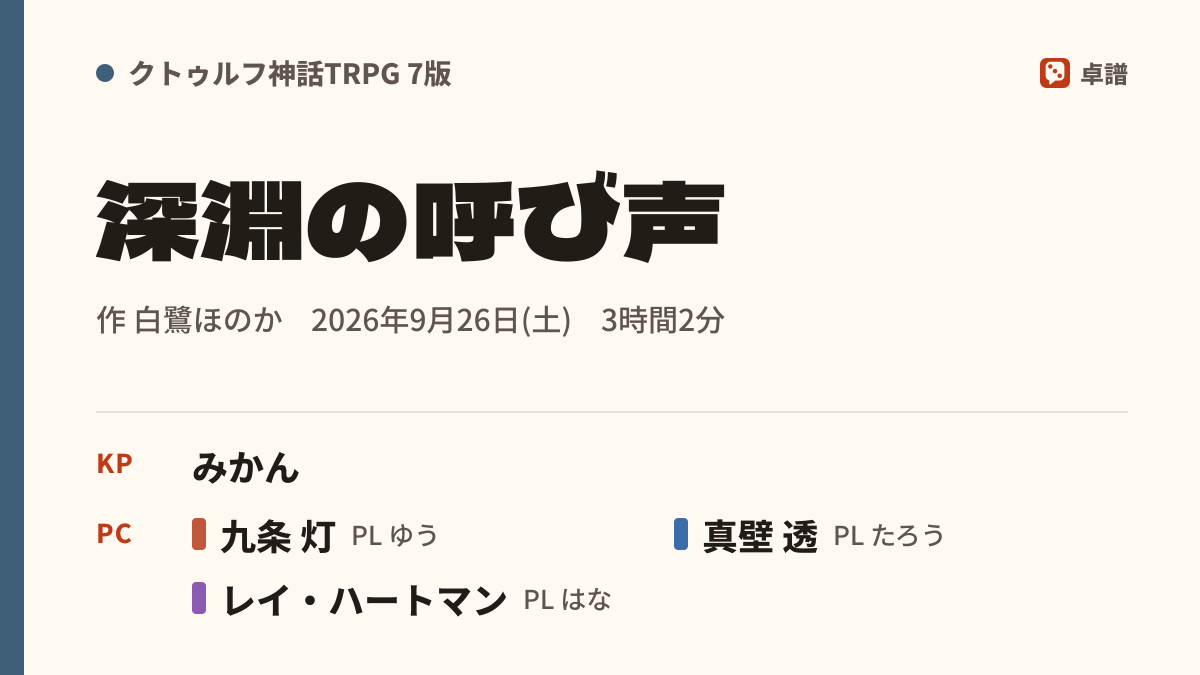
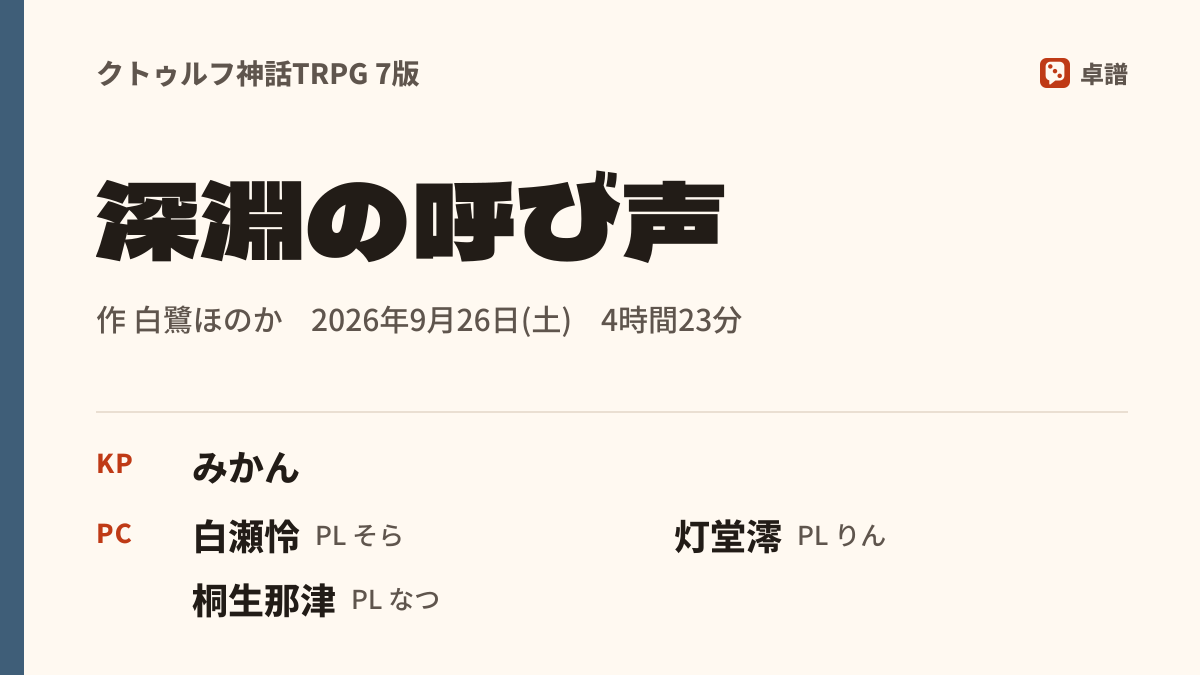
fix(report-card): no headcount-only roster, no per-person colours
When every name is hidden the card now omits the roster instead of showing
"PL 5人", and colour is limited to the system band: no per-PC markers and
no dot before the system name. The card payload drops players and colours;
the post text counts players itself. The LP sample is redrawn with the LP's
own cast.

diff --git a/src/server/og-image.tsx b/src/server/og-image.tsx
@@ -420,12 +420,11 @@ function Member({ m, width, plLabel }: { m: ReportCardMember; width: number; plL
   const sub = m.pc && m.pl ? `${plLabel} ${m.pl}` : undefined;
   return (
     <div style={row({ width, height: 50, gap: 14, overflow: "hidden", flexShrink: 0 })}>
-      <div style={{ width: 14, height: 32, borderRadius: 4, flexShrink: 0, background: m.color ?? C.line }} />
       <span
         style={{
           display: "block",
           lineClamp: 1,
-          maxWidth: width - 28,
+          maxWidth: width,
           fontSize: 36,
           fontWeight: 800,
           color: C.ink,
@@ -455,7 +454,7 @@ function Member({ m, width, plLabel }: { m: ReportCardMember; width: number; plL
 
 /**
  * 卓報告カード。X の卓報告の並び（システム『題名』作者 / 日付 / KP / PL・PC）をそのまま 1 枚にする。
- * 人の画像は載せない。色はシステムの色の帯とキャラクターの色の印だけ、卓譜の名前は右上に小さく
+ * 人の画像は載せない。色は左端のシステムの色の帯だけ（人ごとの色は付けない）、卓譜の名前は右上に小さく
  */
 function ReportCardImage({ card }: { card: ReportCard }) {
   const meta = [card.author && `作 ${card.author}`, card.when, card.duration, card.table].filter(Boolean);
@@ -468,7 +467,8 @@ function ReportCardImage({ card }: { card: ReportCard }) {
   const rosterWidth = 1200 - 96 - 72 - 96;
   const gap = 28;
   const colWidth = Math.floor((rosterWidth - gap * (cols - 1)) / cols);
-  const hasPlayers = card.members.length > 0 || card.players > 0;
+  /* 名前を 1 人も載せないなら、顔ぶれの段ごと出さない（人数だけを出しても読む人の役に立たない） */
+  const hasPlayers = card.members.length > 0;
   const hasRoster = Boolean(card.gm) || hasPlayers;
   /* PC を載せるなら列の名前は PC（PL は名前の後ろに小さく）。載せないなら PL */
   const castLabel = card.members.some((m) => m.pc) ? "PC" : card.plLabel;
@@ -489,18 +489,7 @@ function ReportCardImage({ card }: { card: ReportCard }) {
       <div style={{ display: "flex", flexDirection: "column", flex: 1, padding: "52px 72px 52px 72px" }}>
         <div style={row({ gap: 14, fontSize: 28, fontWeight: 800, color: C.ink2 })}>
           {card.system && (
-            <div style={row({ gap: 14 })}>
-              <div
-                style={{
-                  width: 18,
-                  height: 18,
-                  borderRadius: 999,
-                  background: card.system.color,
-                  flexShrink: 0,
-                }}
-              />
-              <span style={{ display: "block", lineClamp: 1, maxWidth: 760 }}>{card.system.name}</span>
-            </div>
+            <span style={{ display: "block", lineClamp: 1, maxWidth: 760 }}>{card.system.name}</span>
           )}
           <div style={row({ marginLeft: "auto", gap: 10, fontSize: 24, color: C.ink2 })}>
             <Mark size={30} tile={C.field} on={C.paper} />
@@ -558,38 +547,32 @@ function ReportCardImage({ card }: { card: ReportCard }) {
             {hasPlayers && (
               <div style={row({ alignItems: "flex-start" })}>
                 <RoleLabel>{castLabel}</RoleLabel>
-                {card.members.length > 0 ? (
-                  <div
-                    style={{
-                      display: "flex",
-                      flexWrap: "wrap",
-                      columnGap: gap,
-                      rowGap: 14,
-                      width: rosterWidth,
-                    }}
-                  >
-                    {shown.map((m, i) => (
-                      <Member key={i} m={m} width={colWidth} plLabel={card.plLabel} />
-                    ))}
-                    {rest > 0 && (
-                      <span
-                        style={row({
-                          width: colWidth,
-                          height: 50,
-                          fontSize: 30,
-                          fontWeight: 500,
-                          color: C.ink2,
-                        })}
-                      >
-                        {`ほか${rest}人`}
-                      </span>
-                    )}
-                  </div>
-                ) : (
-                  <span
-                    style={{ display: "block", fontSize: 36, fontWeight: 800 }}
-                  >{`${card.players}人`}</span>
-                )}
+                <div
+                  style={{
+                    display: "flex",
+                    flexWrap: "wrap",
+                    columnGap: gap,
+                    rowGap: 14,
+                    width: rosterWidth,
+                  }}
+                >
+                  {shown.map((m, i) => (
+                    <Member key={i} m={m} width={colWidth} plLabel={card.plLabel} />
+                  ))}
+                  {rest > 0 && (
+                    <span
+                      style={row({
+                        width: colWidth,
+                        height: 50,
+                        fontSize: 30,
+                        fontWeight: 500,
+                        color: C.ink2,
+                      })}
+                    >
+                      {`ほか${rest}人`}
+                    </span>
+                  )}
+                </div>
               </div>
             )}
           </div>

diff --git a/src/lib/report-card.ts b/src/lib/report-card.ts
@@ -17,12 +17,10 @@ import { roleLabel } from "./roles";
 import { sessionTitle } from "./session-scenario";
 import { sessionDays, sittingsMinutes } from "./sittings";
 
-/** 顔ぶれの 1 行。名前を載せない項目は無し（PC も PL も無ければ、人数だけ数える） */
+/** 顔ぶれの 1 行。名前を載せない項目は無し（PC も PL も無ければ、その人は載せない）。人ごとの色は付けない */
 export interface ReportCardMember {
   /** PC の名前 */
   pc?: string;
-  /** PC の色（キャラクターの色。名前の前の印に使う） */
-  color?: string;
   /** PL の名前 */
   pl?: string;
 }
@@ -42,8 +40,6 @@ export interface ReportCard {
   gm?: { label: string; name: string };
   /** 遊び手の呼び方（PL） */
   plLabel: string;
-  /** 遊び手の人数（顔ぶれに載せない人も数える。非表示の人は数えない） */
-  players: number;
   members: ReportCardMember[];
   /** 札に収まらず載せなかった顔ぶれの数（「ほか N 人」） */
   more?: number;
@@ -108,6 +104,13 @@ function nameVisible(log: Log, state: State, uid: string): boolean {
   return !(state.prefs.hideSelfOnShare && uid === state.me);
 }
 
+/** 投稿文に添える遊び手の人数（進行役と、共有ページで非表示の人は数えない）。カードには載せない */
+export function reportPlayerCount(log: Log, state: State): number {
+  return Object.entries(log.players).filter(
+    ([uid, link]) => uid !== log.ownerId && !link.hidden && Boolean(state.users[uid]),
+  ).length;
+}
+
 /** 記録した人の手元の記録から、卓報告カードの中身を作る */
 export function reportCardFromSession(
   log: Log,
@@ -123,12 +126,10 @@ export function reportCardFromSession(
   const gmName = gmUser && options.names && nameVisible(log, state, log.ownerId) ? gmUser.name : undefined;
 
   const members: ReportCardMember[] = [];
-  let players = 0;
   for (const [uid, link] of Object.entries(log.players)) {
     if (uid === log.ownerId || link.hidden) continue;
     const user = state.users[uid];
     if (!user) continue;
-    players += 1;
     // 名前を隠すにした自分は、PC も含めて載せない（PC から人が分かるため）
     if (!nameVisible(log, state, uid)) continue;
     const pl = options.names ? short(user.name, LIMIT.name) : undefined;
@@ -136,13 +137,12 @@ export function reportCardFromSession(
       ? link.characterIds.map((id) => state.characters[id]).filter((c) => c !== undefined)
       : [];
     if (chars.length === 0) {
-      if (pl) members.push({ pl, ...(HEX.test(user.color) ? { color: user.color } : {}) });
+      if (pl) members.push({ pl });
       continue;
     }
     for (const c of chars)
       members.push({
         pc: short(c.name, LIMIT.name),
-        ...(HEX.test(c.color) ? { color: c.color } : {}),
         ...(pl ? { pl } : {}),
       });
   }
@@ -156,7 +156,6 @@ export function reportCardFromSession(
     ...(options.table && table ? { table: short(table, LIMIT.table) } : {}),
     ...(gmName ? { gm: { label: roleLabel(log.systemId, "GM"), name: short(gmName, LIMIT.name) } } : {}),
     plLabel: roleLabel(log.systemId, "PL"),
-    players,
     members: members.slice(0, REPORT_CAST_MAX),
     ...(members.length > REPORT_CAST_MAX ? { more: members.length - REPORT_CAST_MAX } : {}),
   };
@@ -189,8 +188,7 @@ export function parseReportCard(body: unknown): ReportCard | null {
       const pc = text(x?.pc, LIMIT.name);
       const pl = text(x?.pl, LIMIT.name);
       if (!pc && !pl) return [];
-      const c = color(x?.color);
-      return [{ ...(pc ? { pc } : {}), ...(c ? { color: c } : {}), ...(pl ? { pl } : {}) }];
+      return [{ ...(pc ? { pc } : {}), ...(pl ? { pl } : {}) }];
     });
   const count = (v: unknown) =>
     typeof v === "number" && Number.isInteger(v) ? Math.min(Math.max(v, 0), 99) : 0;
@@ -208,7 +206,6 @@ export function parseReportCard(body: unknown): ReportCard | null {
     ...optional("table", r.table),
     ...(gmLabel && gmName ? { gm: { label: gmLabel, name: gmName } } : {}),
     plLabel: text(r.plLabel, LIMIT.label) ?? "PL",
-    players: count(r.players),
     members,
     ...(more > 0 ? { more } : {}),
   };

diff --git a/src/lib/report-card.test.ts b/src/lib/report-card.test.ts
@@ -93,12 +93,12 @@ describe("卓報告カードの中身", () => {
     expect(card.duration).toBe("3時間2分");
     expect(card.table).toBeUndefined();
     expect(card.gm).toEqual({ label: "KP", name: "みかん" });
-    expect(card.players).toBe(3);
+    expect(card).not.toHaveProperty("players");
     expect(card.members).toEqual([
-      { pc: "九条 灯", color: "#aa5522", pl: "ゆう" },
-      { pc: "九条 澪", color: "#aa5522", pl: "ゆう" },
-      { pc: "真壁 透", color: "#aa5522", pl: "たろう" },
-      { pl: "はな", color: "#3366cc" },
+      { pc: "九条 灯", pl: "ゆう" },
+      { pc: "九条 澪", pl: "ゆう" },
+      { pc: "真壁 透", pl: "たろう" },
+      { pl: "はな" },
     ]);
     // ネタバレになるもの・人の画像は載せない
     expect(JSON.stringify(card)).not.toMatch(/SAN|HP|data:|image/);
@@ -142,8 +142,9 @@ describe("卓報告カードの中身", () => {
     expect(JSON.stringify(noNames)).not.toMatch(/みかん|ゆう|たろう|はな/);
 
     const nobody = reportCardFromSession(log, state, opts({ pc: false, names: false }));
+    // 名前を 1 人も載せないなら、人数も載せない（カードは顔ぶれの段ごと出さない）
     expect(nobody.members).toEqual([]);
-    expect(nobody.players).toBe(3);
+    expect(nobody).not.toHaveProperty("players");
   });
 
   it("作者・日付・時間・卓の名前も選べる", () => {
@@ -159,22 +160,21 @@ describe("卓報告カードの中身", () => {
     expect(card.table).toBe("金曜の卓");
   });
 
-  it("共有ページで非表示の参加者は、名前を載せる設定でも載せず、数えもしない", () => {
+  it("共有ページで非表示の参加者は、名前を載せる設定でも載せない", () => {
     const { state, log } = fixture();
     log.players.p2!.hidden = true;
     log.players.kp!.hidden = true;
     const card = reportCardFromSession(log, state);
     expect(card.gm).toBeUndefined();
     expect(JSON.stringify(card)).not.toMatch(/みかん|たろう|真壁/);
-    expect(card.players).toBe(2);
+    expect(card.members.map((m) => m.pl)).toEqual(["ゆう", "ゆう", "はな"]);
   });
 
-  it("「共有ページで名前を隠す」にした自分は、名前も PC も載せない（人数には数える）", () => {
+  it("「共有ページで名前を隠す」にした自分は、名前も PC も載せない", () => {
     const { state, log } = fixture();
     state.prefs.hideSelfOnShare = true;
     const card = reportCardFromSession(log, state);
     expect(JSON.stringify(card)).not.toMatch(/ゆう|九条/);
-    expect(card.players).toBe(3);
     // 自分が KP のときも
     log.ownerId = "me";
     expect(reportCardFromSession(log, state).gm).toBeUndefined();
@@ -229,7 +229,7 @@ describe("送られてきた卓報告カードの確かめ", () => {
     expect(parseReportCard({ title: "x", members: [] })).toMatchObject({
       title: "x",
       plLabel: "PL",
-      players: 0,
+      members: [],
     });
   });
 });

diff --git a/src/screens/SessionDetail.tsx b/src/screens/SessionDetail.tsx
@@ -62,6 +62,7 @@ import {
   REPORT_OPTIONS_KEY,
   reportCardChoices,
   reportCardFromSession,
+  reportPlayerCount,
   type ReportCard,
   type ReportCardOptions,
 } from "../lib/report-card";
@@ -1292,8 +1293,8 @@ export function ReportCardModal({ log, onClose }: { log: Log; onClose: () => voi
   const card = useMemo(() => reportCardFromSession(log, state, options), [log, state, options]);
   const choices = useMemo(() => reportCardChoices(log, state), [log, state]);
   const tweet = useMemo(
-    () => ({ title: card.title, playerCount: card.players, shareUrl }),
-    [card.title, card.players, shareUrl],
+    () => ({ title: card.title, playerCount: reportPlayerCount(log, state), shareUrl }),
+    [card.title, log, state, shareUrl],
   );
   /* 描き終えた画像と、どの中身から描いたか。いまの中身と違えば描き直し中 */
   const [image, setImage] = useState<{ url: string; file: File } | null>(null);

diff --git a/mobile/src/app/sessions/[id].tsx b/mobile/src/app/sessions/[id].tsx
@@ -9,6 +9,7 @@ import {
   REPORT_DEFAULTS,
   reportCardChoices,
   reportCardFromSession,
+  reportPlayerCount,
   type ReportCardOptions,
 } from "@shared/lib/report-card";
 import { createSharedInvite, fetchSharedLog, revokeSharedMember } from "@shared/lib/cloud-state";
@@ -993,8 +994,8 @@ function ReportCardSheet({ log, onClose }: { log: Log; onClose: () => void }) {
   const card = useMemo(() => reportCardFromSession(log, state, options), [log, state, options]);
   const choices = useMemo(() => reportCardChoices(log, state), [log, state]);
   const tweet = useMemo(
-    () => ({ title: card.title, playerCount: card.players, shareUrl }),
-    [card.title, card.players, shareUrl],
+    () => ({ title: card.title, playerCount: reportPlayerCount(log, state), shareUrl }),
+    [card.title, log, state, shareUrl],
   );
   const [uri, setUri] = useState<string | null>(null);
 

diff --git a/docs/design-feedback.md b/docs/design-feedback.md
@@ -358,6 +358,8 @@
 |---|---|---|---|
 | P14・P5 | 卓報告画像のクオリティが低い／キャラの画像や名前は出したくない人もいる／画像は含めない | 卓報告カードに人の画像（アイコン・立ち絵・生成した姿）を載せない（P9 の生成画像はアプリの中の表示に限る）。並びは X の卓報告の書き方（システム『題名』作者・日付・KP・PL と PC）に合わせ、PC の名前・KP と PL の名前・作者・日付・時間・卓の名前は作る人が選ぶ（卓の名前だけ既定で外す）。共有ページで非表示の人と「名前を隠す」にした自分は、選んでも載せない | 単体テスト `report-card.test.ts` |
 | P1 | （自己検査）本番の前段（CloudFront）が大きな POST を断り、画像入りのカードを作れなかった | 本文に画像を入れず、本文の上限を `REPORT_BODY_MAX`（8KB）にする。名前がどれだけ長くても上限に収まる形で作る | 単体テスト `report-card.test.ts`・`route.test.ts` |
+| P5 | 名前を全部外すと「PL 5人」と人数だけが出る。何も出さない方がまし | 名前を 1 人も載せないなら、顔ぶれの段ごと出さない。人数はカードの中身に持たない（投稿文の人数は `reportPlayerCount`） | 単体（`report-card.test.ts`: 名前なしのカードに `players` が無い） |
+| P5 | PL ごとの色の印でカラフル過ぎる | 色は左端のシステムの帯だけ。人ごとの色・システム名の前の色の点は付けない（カードの中身にも色を持たない） | 単体（`report-card.test.ts`: 顔ぶれは pc・pl だけ）・目視（カードの PNG） |
 
 ## 17. 録画とログの紐づけ（2026-11-27）
 
